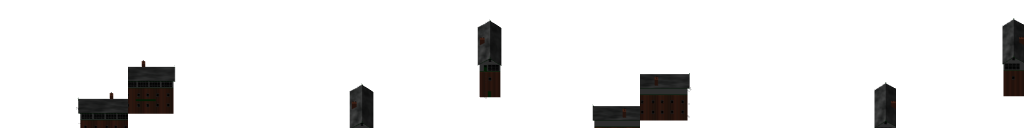
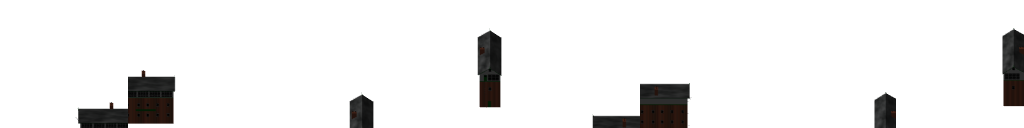
buildings: Building.strip + Z-axis offset diagnostic
Building gains a `strip=` bake-meta field (mirrors `Way.strip`) so
per-asset bakes can drop debug/registration meshes that have no
material slot, threaded through render.py's --strip CLI and
diff_buildings' render path.  stonehenge.blend ships three corner
registration quads (Plane.002/004/005) with empty material_slots
that Cycles renders as flat-grey diamonds but upstream's BI pipeline
skips; stripping them lifts stonehenge's worst stitched IoU 0.49 ->
0.52.

`pak.diag_centroid_align` also reports a pure-Z candidate alongside
the existing XY one.  `blend_model_offset_xyz` applies pre-rotation
(model-local), so on multi-tile buildings whose layouts rotate, an
XY offset rotates with each layout while Z stays uniform.  Signalbox
shows the textbook pure-Z drift (dy ~= -20 across all 4 layouts, dx
~= 0); pinning (0,0,+2.14) lifts worst stitched IoU 0.53 -> 0.69,
mean dRGB 5.0 -> 2.9.  The pre-rotation gotcha is recorded in
CLAUDE.md and the multi-tile XY gap is queued in TODO.md for
stonehenge.

diff --git a/pak/diff_buildings.py b/pak/diff_buildings.py
@@ -93,6 +93,7 @@ def _render(blend_path: Path, out_dir: Path, name: str, layouts: int,
             materials: dict | None = None, lighting=None,
             blend_ortho_per_tile: float | None = None,
             model_offset_xyz: tuple[float, float, float] | None = None,
+            strip: str | None = None,
             ) -> None:
     script = HERE / "render.py"
     cmd = [
@@ -109,6 +110,8 @@ def _render(blend_path: Path, out_dir: Path, name: str, layouts: int,
         # negative components like "-0.27,..." as a new option flag.
         cmd += ["--model-offset=" +
                 ",".join(str(v) for v in model_offset_xyz)]
+    if strip:
+        cmd += ["--strip", strip]
     if materials:
         import json
 
@@ -364,6 +367,7 @@ def run_multitile(
     blend_source: str = "jp",
     blend_ortho_per_tile: float | None = None,
     model_offset_xyz: tuple[float, float, float] | None = None,
+    strip: str | None = None,
 ):
     """Render the multi-tile blend through `square_building`, build the
     per-layout stitched upstream canvas from upstream's per-cell PNGs,
@@ -395,7 +399,8 @@ def run_multitile(
             dims_x=dims_x, dims_y=dims_y,
             materials=materials, lighting=lighting,
             blend_ortho_per_tile=blend_ortho_per_tile,
-            model_offset_xyz=model_offset_xyz)
+            model_offset_xyz=model_offset_xyz,
+            strip=strip)
     our_canvases = _load_our_renders(out_dir, render_name, layouts)
 
     up_dat_path = fetch_pak(upstream_dat)
@@ -535,7 +540,8 @@ def _diff_one_season(blend: str, upstream_dat: str, *, layouts: int,
                      name: str | None = None,
                      blend_source: str = "jp",
                      blend_ortho_per_tile: float | None = None,
-                     model_offset_xyz: tuple[float, float, float] | None = None):
+                     model_offset_xyz: tuple[float, float, float] | None = None,
+                     strip: str | None = None):
     """Render `blend`, diff each layout against the `season_row` row
     of the upstream atlas (derived from `upstream_dat`'s `BackImage`
     refs), and return `(grid_cells, mat, perm, drgb)`.
@@ -554,7 +560,8 @@ def _diff_one_season(blend: str, upstream_dat: str, *, layouts: int,
     _render(blend_path, out_dir, render_name, layouts,
             materials=materials, lighting=lighting,
             blend_ortho_per_tile=blend_ortho_per_tile,
-            model_offset_xyz=model_offset_xyz)
+            model_offset_xyz=model_offset_xyz,
+            strip=strip)
     up_path = fetch_pak(f"{image_stem(upstream_dat, name=name)}.png")
     up_cells = _split_upstream(up_path, layouts, season_row=season_row)
     our_rgba = _load_our_renders(out_dir, render_name, layouts)
@@ -584,7 +591,8 @@ def run(blend: str, upstream_dat: str, *, layouts: int, out_dir: Path,
         name: str | None = None,
         blend_source: str = "jp",
         blend_ortho_per_tile: float | None = None,
-        model_offset_xyz: tuple[float, float, float] | None = None):
+        model_offset_xyz: tuple[float, float, float] | None = None,
+        strip: str | None = None):
     """Render `blend` through `square_building`, diff each layout
     against the columns of the upstream atlas (derived from
     `upstream_dat`'s `BackImage` refs), return (matrix, permutation, drgb).
@@ -604,6 +612,7 @@ def run(blend: str, upstream_dat: str, *, layouts: int, out_dir: Path,
         blend_source=blend_source,
         blend_ortho_per_tile=blend_ortho_per_tile,
         model_offset_xyz=model_offset_xyz,
+        strip=strip,
     )
     compose_grid(cells, out_path=out_dir / grid_name,
                  strip_magic_rgb=MAGIC_PINK, title=title)
@@ -619,6 +628,7 @@ def run_seasonal(
     blend_source: str = "jp",
     blend_ortho_per_tile: float | None = None,
     model_offset_xyz: tuple[float, float, float] | None = None,
+    strip: str | None = None,
 ):
     """Diff summer then winter against the matching upstream rows and
     write **one** combined grid (`grid.png`) covering both seasons —
@@ -635,6 +645,7 @@ def run_seasonal(
         blend_source=blend_source,
         blend_ortho_per_tile=blend_ortho_per_tile,
         model_offset_xyz=model_offset_xyz,
+        strip=strip,
     )
     winter_cells, *winter_stats = _diff_one_season(
         blend_winter, upstream_dat, layouts=layouts, out_dir=out_dir,
@@ -644,6 +655,7 @@ def run_seasonal(
         blend_source=blend_source,
         blend_ortho_per_tile=blend_ortho_per_tile,
         model_offset_xyz=model_offset_xyz,
+        strip=strip,
     )
     compose_grid(
         summer_cells + winter_cells,

diff --git a/pak/diag_centroid_align.py b/pak/diag_centroid_align.py
@@ -50,13 +50,28 @@ from pak.upstream import image_stem
 
 # Dimetric world->screen rates at the upstream-normal-cardinal
 # projection in our 512x512 canvas at the per-tile=24 standard ortho
-# (ortho=48 effective).  World +x maps to screen (+7.54, +3.78);
-# world +y maps to (-7.54, +3.78).  Used to suggest a world XY
-# translation that would produce a given screen offset, treating the
-# silhouette's vertical drift as ground-plane displacement (the most
-# common case for building footings authored at z=0).
+# (ortho=48 effective).  Pixels-per-world on the camera plane =
+# 512/48 = 10.67; camera at 45° azimuth, 30° elevation gives:
+#   world +x → screen (+7.54, +3.78)  = 10.67·(cos 45°, sin 45°·sin 30°)
+#   world +y → screen (-7.54, +3.78)
+#   world +z → screen (0,    -9.24)   = 10.67·(0,        -cos 30°)
+# The XY candidate assumes the drift is ground-plane displacement;
+# the Z candidate assumes the model floats above/below z=0.  Picking
+# between them: dy consistent across layouts + dx≈0 -> pure-Z drift
+# (Z is rotation-invariant); (dx, dy) rotating with the layout -> XY
+# drift -- but that one can't be pinned via `blend_model_offset_xyz`
+# on multi-tile assets (see CLAUDE.md -> "blend_model_offset_xyz
+# applies pre-rotation, model-local").
 _WORLD_TO_SCREEN_X_PER_WORLD = 7.54
 _WORLD_TO_SCREEN_Y_PER_WORLD = 3.78
+_WORLD_TO_SCREEN_Z_PER_WORLD = 9.24
+
+
+def _screen_to_world_z(dy: int) -> float:
+    """SPEC.z candidate.  `_iou_shift`'s screen-y is image-down, world
+    +Z is image-up, and the renderer applies `Translation(-offset)`
+    -- the signs cancel to a straight division."""
+    return -dy / _WORLD_TO_SCREEN_Z_PER_WORLD
 
 
 def _iou_shift(our_mask: np.ndarray, up_mask: np.ndarray,
@@ -139,7 +154,7 @@ def main(argv: list[str]) -> int:
 
     print(f"=== {script.name} centroid-alignment sweep ===")
     print(f"  {'L':<3} {'raw IoU':>9} {'aligned':>9} {'dx':>5} {'dy':>5}"
-          f"  {'world dx':>9} {'world dy':>9}")
+          f"  {'wx (z=0)':>9} {'wy (z=0)':>9} {'wz (xy=0)':>10}")
     dxs, dys = [], []
     for L in range(layouts):
         cells_by_yx = {
@@ -154,14 +169,19 @@ def main(argv: list[str]) -> int:
         raw = _iou_shift(our_mask, up_mask, 0, 0)
         dx, dy, peak = _sweep_offset(our_mask, up_mask)
         wx, wy = _screen_to_world_xy(dx, dy)
+        wz = _screen_to_world_z(dy)
         dxs.append(dx); dys.append(dy)
         print(f"  {L:<3} {raw:>9.3f} {peak:>9.3f} {dx:>5} {dy:>5}"
-              f"  {wx:>+9.2f} {wy:>+9.2f}")
+              f"  {wx:>+9.2f} {wy:>+9.2f} {wz:>+10.2f}")
     mdx, mdy = sum(dxs) / len(dxs), sum(dys) / len(dys)
     mwx, mwy = _screen_to_world_xy(round(mdx), round(mdy))
+    mwz = _screen_to_world_z(mdy)
     print(f"  --  mean offset: screen ({mdx:+.1f},{mdy:+.1f}), "
-          f"world (xy, z=0): ({mwx:+.2f},{mwy:+.2f}) "
-          f"-- candidate for blend_model_offset_xyz")
+          f"world (xy, z=0): ({mwx:+.2f},{mwy:+.2f}); "
+          f"world (xy=0, z): {mwz:+.2f}")
+    print( "      Pick Z when dy is consistent and dx ≈ 0 (rotation-"
+          "invariant, safe on multi-tile).  XY only applies on single-"
+          "tile assets -- multi-tile XY can't be pinned today.")
     return 0
 
 

diff --git a/attractions/stonehenge.py b/attractions/stonehenge.py
@@ -50,14 +50,20 @@ SPEC = Building(
     # tile, vs the standard 24).  Pin per-tile=24 to render at
     # the standard rate -- 72 / (24 * 2) = 1.5 divisor.
     blend_ortho_per_tile=24.0,
-    # `pak.diag_centroid_align` reports per-layout residuals that
-    # don't reduce to a single model translation: tried pinning the
-    # mean and only one layout aligns; others get worse.  Leave None
-    # -- the residual is per-layout shape mismatch from procedural
-    # Stone material's MUSGRAVE/CLOUDS noise rotating with the model
-    # (every layout renders a different noise phase in world coords
-    # while upstream BI samples differently).  Worst stitched IoU
-    # ~0.49 is the floor.
+    # Plane.002/.004/.005 are three corner registration quads at z=0.02
+    # with no material slot, rendered as flat-grey diamonds by Cycles
+    # but not by upstream's BI pipeline (BI skips unmaterialled faces).
+    # Strip them on entry so the bake silhouette matches upstream.
+    strip="Sphere,Plane.002,Plane.004,Plane.005",
+    # `pak.diag_centroid_align` after the strip reports a clean XY
+    # drift (mean (-0.27, +0.27), dy ≈ 0 -> no Z component).  But
+    # `blend_model_offset_xyz` is pre-rotation (see CLAUDE.md ->
+    # "blend_model_offset_xyz applies pre-rotation, model-local"); the
+    # 2x2 layouts rotate 0°/90°/180°/270°, so an XY offset would rotate
+    # with each layout and only help one of four.  Empirically
+    # confirmed: pinning the mean lifted L1 0.557 -> 0.921 and hurt the
+    # other three.  Leave None until the post-rotation world-frame
+    # offset mechanism lands (TODO.md -> "Multi-tile XY offset gap").
 )
 
 

diff --git a/pak/render.py b/pak/render.py
@@ -1171,6 +1171,13 @@ def _parse_args(argv):
                     help="JSON serialisation of the bake script's optional "
                          "`LIGHTING = Lighting(...)` block; per-asset world-"
                          "ambient + sun overrides.  See pak.materials.Lighting.")
+    ap.add_argument("--strip", default=None,
+                    help="Comma-separated mesh-object names to drop on "
+                         "entry, overriding the viewpoint's default "
+                         "(`Sphere`).  Used by per-asset bakes to remove "
+                         "blend-shipped debug / registration meshes that "
+                         "carry no material slot (so a materials override "
+                         "can't reach them).")
     ap.add_argument("--material-id-map", action="store_true",
                     help="Diagnostic: instead of the normal render, "
                          "replace every material with a flat unlit "
@@ -1242,6 +1249,11 @@ def main(argv):
         vp = factory(ages=ages, seasons=seasons)
     else:
         raise SystemExit(f"unknown viewpoint: {args.viewpoint!r}")
+
+    if args.strip is not None:
+        vp = replace(vp, strip_meshes=tuple(
+            n for n in args.strip.split(",") if n
+        ))
 
     materials = None
     if args.materials:

diff --git a/pak/check.py b/pak/check.py
@@ -90,6 +90,7 @@ def _run_one(script: Path, views: int) -> tuple[float, int | None, float, float 
                 blend_source=spec.blend_source,
                 blend_ortho_per_tile=spec.blend_ortho_per_tile,
                 model_offset_xyz=spec.blend_model_offset_xyz,
+                strip=spec.strip,
             )
             print(f"wrote {out_dir / 'grid_tiles.png'}")
             print(diff_buildings.format_multitile_table(per_cell))
@@ -129,6 +130,7 @@ def _run_one(script: Path, views: int) -> tuple[float, int | None, float, float 
                 name=spec.name,
                 blend_source=spec.blend_source,
                 blend_ortho_per_tile=spec.blend_ortho_per_tile,
+                strip=spec.strip,
             )
         else:
             mat, perm, drgb = diff_buildings.run(
@@ -138,6 +140,7 @@ def _run_one(script: Path, views: int) -> tuple[float, int | None, float, float 
                 name=spec.name,
                 blend_source=spec.blend_source,
                 blend_ortho_per_tile=spec.blend_ortho_per_tile,
+                strip=spec.strip,
             )
             seasons = [("summer", mat, perm, drgb)]
 

diff --git a/pak/dat.py b/pak/dat.py
@@ -518,6 +518,16 @@ class Building:
     # `pak.diag_centroid_align` sweep).  Units: world units, same
     # frame as the blend's authored XYZ.
     blend_model_offset_xyz: tuple[float, float, float] | None = _bake_meta()
+    # Comma-separated mesh names to drop from the scene on entry.
+    # Default `Sphere` is the upstream sun-direction visualizer; per-blend
+    # overrides go here when a blend ships extra debug meshes that have no
+    # material slot (so `materials=` can't reach them) and aren't picked up
+    # by upstream's BI renderer either — e.g. attractions/stonehenge.blend
+    # ships three corner registration quads (Plane.002/004/005) with empty
+    # `material_slots` that Cycles renders as flat-grey squares.  Same
+    # shape as `Way.strip`; both wire through `render.py`'s
+    # `Viewpoint.strip_meshes`.
+    strip: str = _bake_meta(default="Sphere")
 
 
 @dataclass

diff --git a/signalboxes/mechanical_signalbox_large.py b/signalboxes/mechanical_signalbox_large.py
@@ -74,6 +74,11 @@ SPEC = Building(
     blend="signals/mechanical-signalbox-large.blend",
     upstream_dat="signalboxes/mechanical-signalbox-large.dat",
     materials=MATERIALS,
+    # `pak.diag_centroid_align` reports dy ≈ -20 across all 4 layouts
+    # with dx ≈ 0 in the mean -- the textbook pure-Z drift pattern
+    # (see CLAUDE.md -> "blend_model_offset_xyz applies pre-rotation").
+    # Per-layout Z candidates +2.71/+2.49/+1.52/+1.84 -> mean +2.14.
+    blend_model_offset_xyz=(0.0, 0.0, 2.14),
 )
 
 

diff --git a/pak/bake.py b/pak/bake.py
@@ -362,6 +362,8 @@ def _render_building_season(
         # negative components like "-0.27,..." as a new option flag.
         cmd += ["--model-offset=" +
                 ",".join(str(v) for v in spec.blend_model_offset_xyz)]
+    if spec.strip:
+        cmd += ["--strip", spec.strip]
     if materials:
         from pak.materials import to_jsonable
         cmd += ["--materials", json.dumps(to_jsonable(materials))]

diff --git a/TODO.md b/TODO.md
@@ -336,26 +336,38 @@ a candidate offset.  The diff scores raw IoU at the structural
 anchor -- no auto-sweep -- so misalignment surfaces as IoU
 residual rather than being silently absorbed.
 
-Worst raw stitched IoU: signalbox 0.55 (was 0.557 against the
-old (256, 256) anchor; sign of the residual flipped but magnitude
-unchanged), stonehenge 0.49.  Pinning `blend_model_offset_xyz`
-on stonehenge tried -- per-layout best offsets don't collapse to
-one world translation (each layout's MUSGRAVE/CLOUDS noise phase
-rotates with the model, producing a different per-layout best
-shift), and pinning the mean helps one layout while hurting the
-others.  Stonehenge SPEC stays at default; the floor is the
-Cycles-vs-BI procedural-material rendering gap.  Concrete next
-move when a third multi-tile building ports: if its residual
-*does* collapse to one offset, the SPEC field gets exercised in
-production for the first time.  If not, the per-layout drift is
-a procedural-noise renderer-mismatch floor across the class.
+Worst raw stitched IoU: signalbox **0.69** (was 0.55 -- pinned
+`blend_model_offset_xyz=(0,0,+2.14)` per `diag_centroid_align`'s
+pure-Z candidate), stonehenge **0.52** (was 0.49 -- corner-plane
+strip).  Signalbox's pure-Z case worked cleanly because Z is
+rotation-invariant; stonehenge's residual is XY drift that the
+current pre-rotation `blend_model_offset_xyz` can't express on a
+multi-tile asset (see "Multi-tile XY offset gap" below).
+Stonehenge's MUSGRAVE/CLOUDS noise floor exists too but is a
+distinct, smaller residual stacked on top of the positional drift.
 
-Stonehenge sits at IoU 0.49, signalbox at 0.55 -- both below
+Stonehenge sits at IoU 0.52, signalbox at 0.69 -- both still below
 `FAIL_IOU=0.88`.  Either lower the floor, add per-asset
 relaxation (`FAIL_IOU` override on SPEC), or mark these as
 known-fail and exclude from the gate.  No decision yet -- the
 diff still emits useful per-layout numbers and the visual grid
 for human inspection.
+
+**Open: multi-tile XY offset gap.**  `blend_model_offset_xyz`
+applies pre-rotation (model-local) per `render.py::render_atlas`,
+so on multi-tile buildings whose layouts rotate the model an XY
+offset rotates with each layout -- it lands correctly for L0/L2 in
+a 0°/180°/0°/180° cycle but flips for L1/L3.  Z is rotation-
+invariant and works (signalbox just exercised this).  Stonehenge
+has a clean XY drift the diag identifies (mean (-0.27, +0.27),
+clustered within ±1 px across layouts) that can't be pinned today.
+Concrete next move when an asset really needs it: add a second
+field on `Building`, e.g. `blend_world_offset_xyz`, that augments
+every facing's `model_translation` (the existing post-rotation
+world-frame slot multi-tile cell positioning already uses).  Cheap
+to plumb: one CLI arg through `render.py`, one tuple add at the
+build-facings step.  Hold off until stonehenge isn't the only
+customer.
 
 **Open: hex vs square building viewpoints disagree on footprint
 centring.**  `building_hex_viewpoint` shifts slice positions by

diff --git a/CLAUDE.md b/CLAUDE.md
@@ -265,6 +265,24 @@ authoring and surfaces drift on assets that don't.  Positional
 anchoring goes through the per-tile `model_translation` axis (used
 by multi-tile buildings), not the fit matrix.
 
+**`blend_model_offset_xyz` applies pre-rotation, model-local.** The
+renderer translates the mesh by `-offset` BEFORE the per-facing Z
+rotation (see `render.py::render_atlas`, the
+`M_target @ Matrix.Translation((-mx,-my,-mz))` line).  For
+multi-tile buildings whose layouts rotate the model (0°/180°/0°/180°
+for a 2×1, 0°/90°/180°/270° for a 2×2), an XY offset rotates with
+each layout — pinning `(-0.27, +0.27)` shifts L0/L2 correctly but
+L1/L3 by the opposite vector, helping half and hurting half.  **Z is
+rotation-invariant** under the XY layout rotation and projects only
+onto screen-Y, so a pure-Z offset shifts every layout uniformly.
+`pak.diag_centroid_align` reports both an XY (z=0) and a pure-Z
+candidate per layout; the discriminator is per-layout consistency
+of the screen `(dx, dy)`: dy consistent + dx≈0 means pure-Z drift
+(safe to pin on any multi-tile asset), dy/dx rotating with the
+layout means an XY drift the current field can't express.  A
+post-rotation world-frame translation mechanism is a separate
+follow-up — see `TODO.md` → "Multi-tile XY offset gap".
+
 **Alignment mode is asset-class-dependent.**  Trains, trams, water
 craft and aircraft use upstream's **`vehicles` alignment** camera
 positions (`op_list "2"`); road vehicles, buildings, signals and
